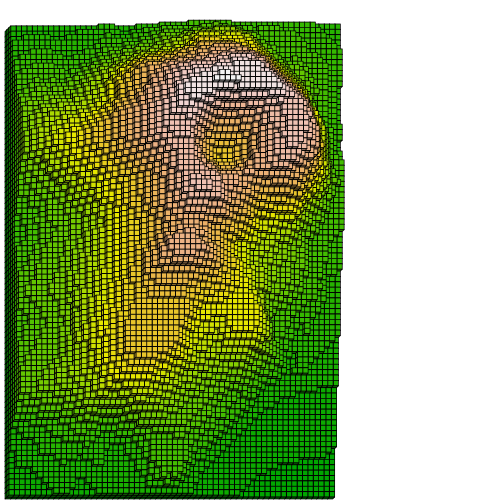
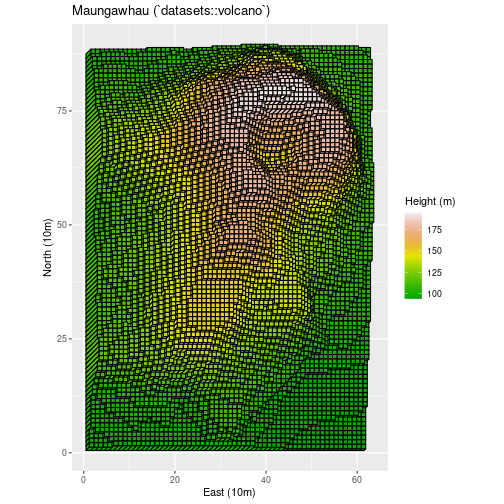
feat: 'xyz_heightmap()` now keeps 'raw' z column
* `xyz_heightmap()` now keeps a "raw" column
* The "raw" column is the (original) "z" column before any `scale`, `min`, and `ground`
  transformations have been performed (it may be repeated "down" if `solid = TRUE`).
  The "raw" column can be useful as the `fill` value in `ggplot2` plots especially
  when adding a legend.

closes #9

diff --git a/README.md b/README.md
@@ -14,6 +14,7 @@
   + [Volcano heightmap](#volcano)
   + [Generating fake terrain](#terrain)
   + [Bitmap fonts](#bitmap)
+  + [Pseudo 3D images](#pseudo)
 
 * [Related software](#related)
 
@@ -81,26 +82,33 @@ for (i in 1:9) {
 
 ### <a name="volcano">Volcano heightmap</a>
 
-By default we do an oblique projection with a `scale` of 0.5 and an `angle` of 45.  This is also known as a "cabinet projection":
+* By default we do an oblique projection with a `scale` of 0.5 and an `angle` of 45.  This is also known as a "cabinet projection".
+* Using cuboids instead of cubes can provide significant speed advantages when rendering "height map" style images.  
 
 
 ```r
-mat <- datasets::volcano
-mat <- 0.3 * (mat - min(mat)) + 1.0
-coords <- xyz_heightmap(mat, col = grDevices::terrain.colors)
-grid.oblicubes(coords)
+library("ggplot2")
+data("volcano", package = "datasets")
+df <- xyz_heightmap(volcano, scale = 0.3, min = 1, solid = FALSE)
+g <- ggplot(df, aes(x, y, z = z, fill = raw)) +
+       geom_oblicuboids(light = FALSE) +
+       coord_fixed() +
+       scale_fill_gradientn(name = "Height (m)",
+                            colours=terrain.colors(256)) +
+       labs(x = "East (10m)", y = "North (10m)",
+            title = "Maungawhau (`datasets::volcano`)")
+plot(g)
 ```
 
 ![](man/figures/README-volcano_oblique-1.png)
 
-* By playing around with the `flipx`, `flipy`, `ground` arguments in `xyz_coords` it is also possible to generate views from different sides of the object.  
+* By playing around with the `flipx`, `flipy`, `ground` arguments in `xyz_coords()` it is also possible to generate views from different sides of the object.  
 * A `scale` of 0 gives you a "primary view orthographic projection".
 
 
 ```r
 library("grDevices")
-mat <- datasets::volcano
-mat <- 0.3 * (mat - min(mat)) + 1.0
+mat <- 0.3 * (volcano - min(volcano)) + 1.0
 
 grid.rect(gp=gpar(col=NA, fill="grey5"))
 width <- convertWidth(unit(0.007, "snpc"), "cm")
@@ -128,7 +136,7 @@ popViewport()
 
 ### <a name="terrain">Generating fake terrain</a>
 
-Inspired by [cj-holmes](https://github.com/cj-holmes)'s [{isocuboids}](https://github.com/cj-holmes/isocuboids) package this package also supports drawing [cuboids](https://en.wikipedia.org/wiki/Cuboid) in addition to cubes.  Using cuboids instead of cubes can provide significant speed advantages when rendering "height map" style images.  Here is an example generating fake terrain using "perlin noise" generated by the [{ambient}](https://github.com/thomasp85/ambient) package.
+* Here is an example generating fake terrain using "perlin noise" generated by the [{ambient}](https://github.com/thomasp85/ambient) package.
 
 
 ```r
@@ -148,21 +156,8 @@ grid.oblicuboids(coords, gp = gpar(col = NA))
 
 
 ```r
-library("bittermelon")
-```
-
-```
-## 
-## Attaching package: 'bittermelon'
-```
-
-```
-## The following object is masked from 'package:base':
-## 
-##     which
-```
-
-```r
+# `{bittermelon}` creates a generic `which()` which defaults to `base::which()`
+library("bittermelon", warn.conflicts = FALSE)
 font_file <- system.file("fonts/spleen/spleen-8x16.hex.gz", package = "bittermelon")
 font <- read_hex(font_file)
 bml <- as_bm_list("RSTATS", font = font)
@@ -180,6 +175,62 @@ grid.oblicubes(coords, width=unit(2.2, "mm"))
 ```
 
 ![](man/figures/README-bitmap_font-1.png)
+
+### <a name="pseudo">Pseudo 3D images</a>
+
+* [cj-holmes](https://github.com/cj-holmes)'s [{isocuboids}](https://github.com/cj-holmes/isocuboids) package has awesome builtin pseudo 3D image support
+* With some work one can also do pseudo 3D images with `{oblicubes}`
+* Image credit: Ivory model of a half a human head, half a skull, Europe, undated. [Science Museum, London](https://wellcomecollection.org/works/z3syda8c). [Attribution 4.0 International (CC BY 4.0)](http://creativecommons.org/licenses/by/4.0/)
+
+
+```r
+library("grid")
+library("magick")
+```
+
+```
+## Linking to ImageMagick 6.9.10.23
+## Enabled features: fontconfig, freetype, fftw, lcms, pango, webp, x11
+## Disabled features: cairo, ghostscript, heic, raw, rsvg
+```
+
+```
+## Using 8 threads
+```
+
+```r
+# Ivory model of half a human head, half a skull, Europe, undated
+# Science Museum, London / CC BY 4.0
+# https://wellcomecollection.org/works/z3syda8c
+url <- "https://iiif.wellcomecollection.org/image/L0057080/full/760%2C/0/default.jpg"
+if (!file.exists("ivory-skull.jpg"))
+    download.file(url, "ivory-skull.jpg")
+img <- image_read("ivory-skull.jpg") |>
+    image_scale("20%") |>
+    image_crop("100x150+26+18")
+col <- as.matrix(as.raster(img))
+# height by luminosity
+rgb2lum <- function(x) (0.2126 * x[1] + 0.7152 * x[2] + 0.0722 * x[3]) / 255
+mat <- col2rgb(col) |>
+         apply(2, rgb2lum)  |>
+         matrix(nrow = nrow(col), ncol = ncol(col))
+df <- xyz_heightmap(mat, col, scale = 20, min = 1, solid = FALSE)
+grid.newpage()
+grid.rect(gp=gpar(fill="black"))
+grid.raster(img, vp = viewport(x=0.25, width=0.5, just=c(0.5, 0.67)))
+grid.text(paste("Ivory model of half a human head, half a skull",
+                "Europe, undated",
+                "Science Museum, London",
+                "Attribution 4.0 International (CC BY 4.0)",
+                sep = "\n"),
+          x=0.26, y = 0.75, gp = gpar(col = "white"))
+grid.oblicuboids(df, scale=0.5, gp=gpar(col=NA),
+                 vp = viewport(x=0.75, width=0.5))
+grid.text("Pseudo 3D derivative (based on luminosity)",
+          x=0.76, y = 0.75, gp = gpar(col = "white"))
+```
+
+![](man/figures/README-skull-1.png)
 
 ## <a name="related">Related software</a>
 
